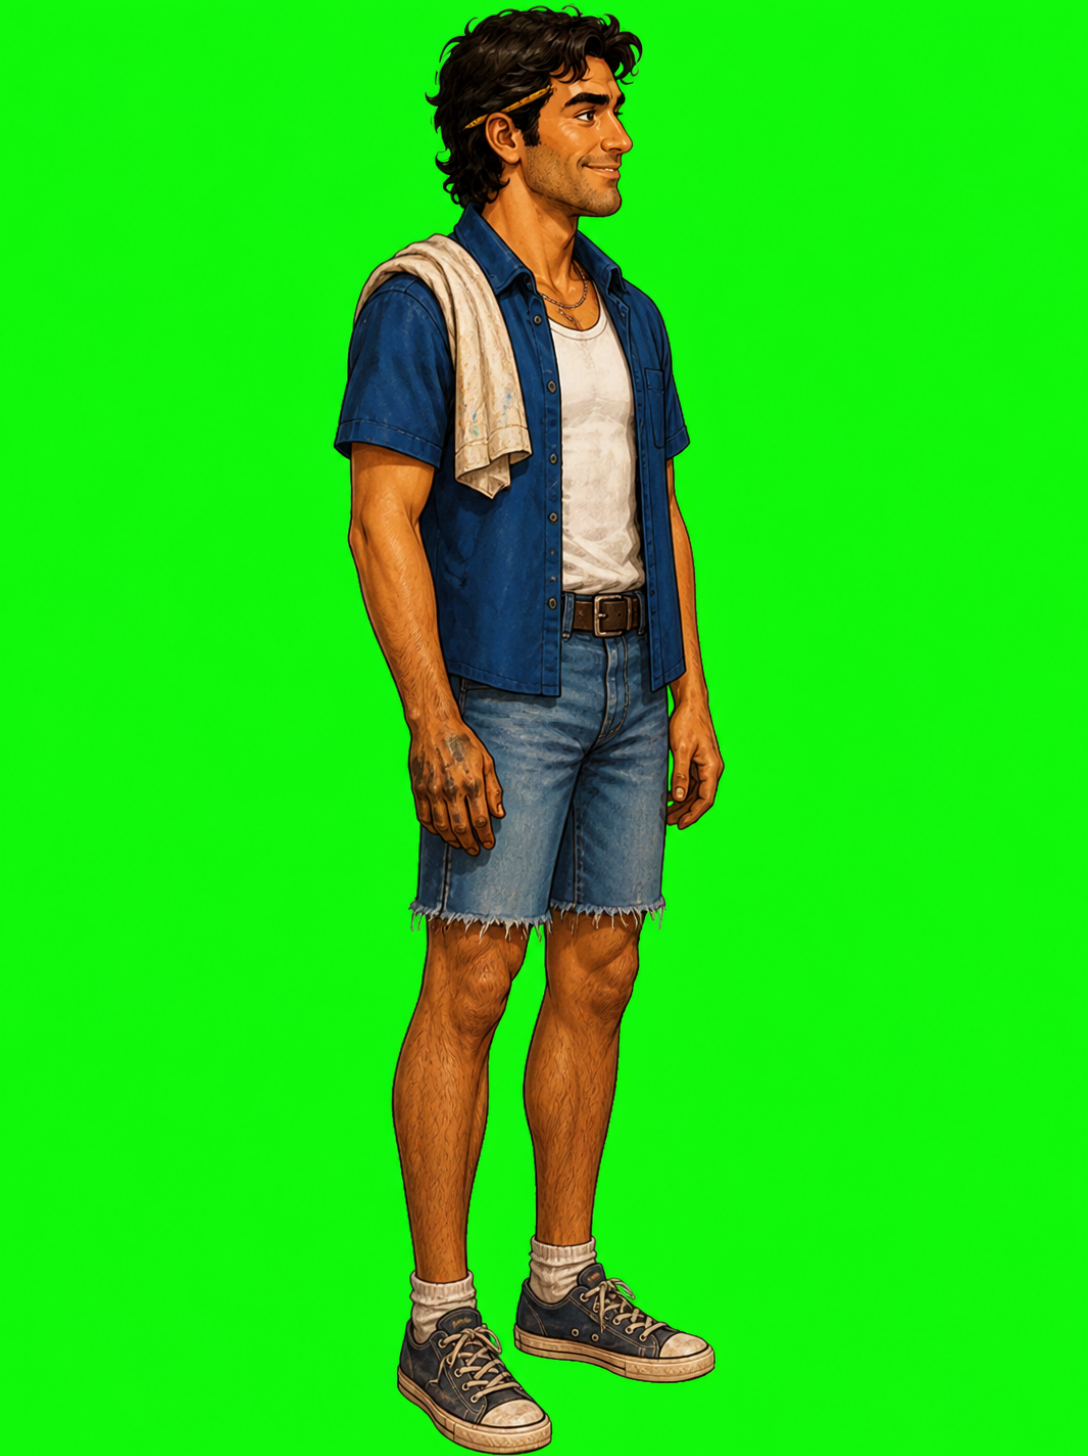
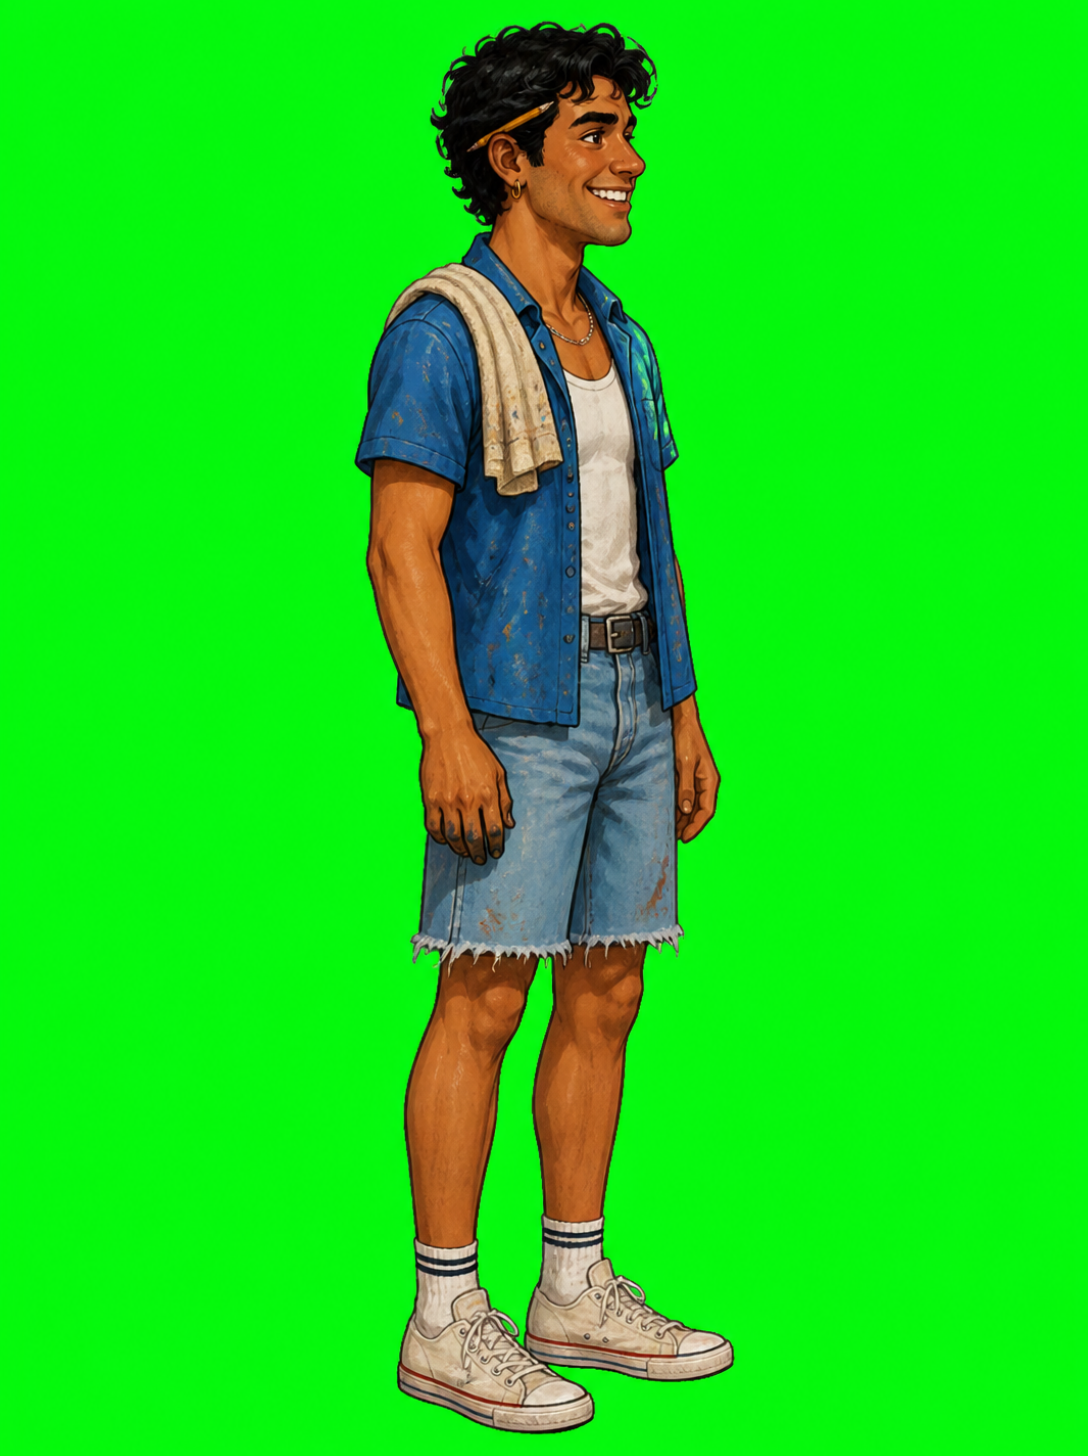
Sequel: repaint Rafa so he no longer looks like Alan; handoff log entry for the Canva art
Claude-Session: https://claude.ai/code/session_016HTeTNSXEDV8gmJrtKWM3n

Changed region(s): [[0.2812, 0.0, 0.6875, 1.0]]

diff --git a/sequel/index.html b/sequel/index.html
@@ -69,7 +69,7 @@
 <script src="js/lines.js?v=1d91057b"></script>
 <script src="js/sprites_game1.js?v=acdd4454"></script>
 <script src="js/sprites_placeholders.js?v=d35f741b"></script>
-<script src="js/sprites_canva.js?v=6008b1e6"></script>
+<script src="js/sprites_canva.js?v=c279797c"></script>
 <script src="js/fx.js?v=6264ea85"></script>
 <script src="js/audio.js?v=ee3c71e9"></script>
 <script src="js/warp.js?v=db7bf2a5"></script>

diff --git a/sequel/js/sprites_canva.js b/sequel/js/sprites_canva.js
@@ -33,12 +33,12 @@ window.SPRITES = Object.assign(window.SPRITES || {}, {
 "w": 253
 },
 "rafa_c": {
-"ax": 91.5,
+"ax": 113.5,
 "fy": 740.0,
 "h": 720.0,
 "hh": 760,
 "top": 20.0,
-"w": 234
+"w": 233
 },
 "yeray_c": {
 "ax": 114.5,

diff --git a/sequel/docs/HANDOFF.md b/sequel/docs/HANDOFF.md
@@ -71,3 +71,14 @@ the Sea, one glimpse only, no line gives it a voice; the Sea is never funny.
    (`scripts/placeholders.py`); Alan and Vasco from Game I (`scripts/import_game1.py`); the Netlify project created.
    Checked: `node --check` on every file; `scripts/validate.mjs` 0 errors, 0 warnings; `scripts/tests/play.mjs` plays
    prologue to credits (98 steps, no page errors; the airport ending and a wrong disc on the way); Game I's `git archive HEAD` checked to leave `sequel/` out and Game I's validate run unchanged.
+2. **Canva art replaces the placeholders** (2026-10-27, the user: "Don't do placeholders, do actual canva designs"). Rooms
+   painted in Canva (`scripts/canva_in.py`, record in `art/canva/log.md` and `media.txt`) and laid out in
+   `js/story/layout.js`; cast painted on green and cut with `scripts/figure_cut.py` (`--half` splits a pair painted side
+   by side) into `art/sprites/*_c.webp` and `js/sprites_canva.js`. Done so far: Carmen, Rayco, Rafa, Yeray, Gail and Derek;
+   still to paint: Pino+Lolo, Nieves+clerk, Chano+guard, Fermín+Mercedes, Montesdeoca+surfer, the vault, the Land Rover,
+   Elena's car, the map, the title, and the 20 stills. The hotel is now Hotel Cristina (as painted), the room 404.
+   **Rafa repainted** (the user: "Rafa looks almost like Alan, you need to change his face"): the style reference was
+   Alan's own sprite, so the first Rafa took his face. The new one (media `MAHZPqKAeW4`) keeps the bible's clothes but has
+   tight black ringlets, a round clean-shaven boyish face, a gold hoop and a gap-toothed grin; the prompt now says to copy
+   the style only. Lesson for the remaining cast: describe each face against Alan's. Checked: validate 0 errors;
+   `play.mjs` won, 98 steps, no page errors (its hotel exit renamed to Hotel Cristina).

diff --git a/sequel/art/canva/log.md b/sequel/art/canva/log.md
@@ -19,3 +19,4 @@
 - 2026-10-27 figure `rafa` Canva media MAHZPSa4_dA -> art/designs/rafa.png 
 - 2026-10-27 figure `yeray` Canva media MAHZPURUUXg -> art/designs/yeray.png 
 - 2026-10-27 figure `gail_derek` Canva media MAHZPXeE2ig -> art/designs/gail_derek.png 
+- 2026-10-27 figure `rafa` Canva media MAHZPqKAeW4 -> art/designs/rafa.png repaint: a face unlike Alan
